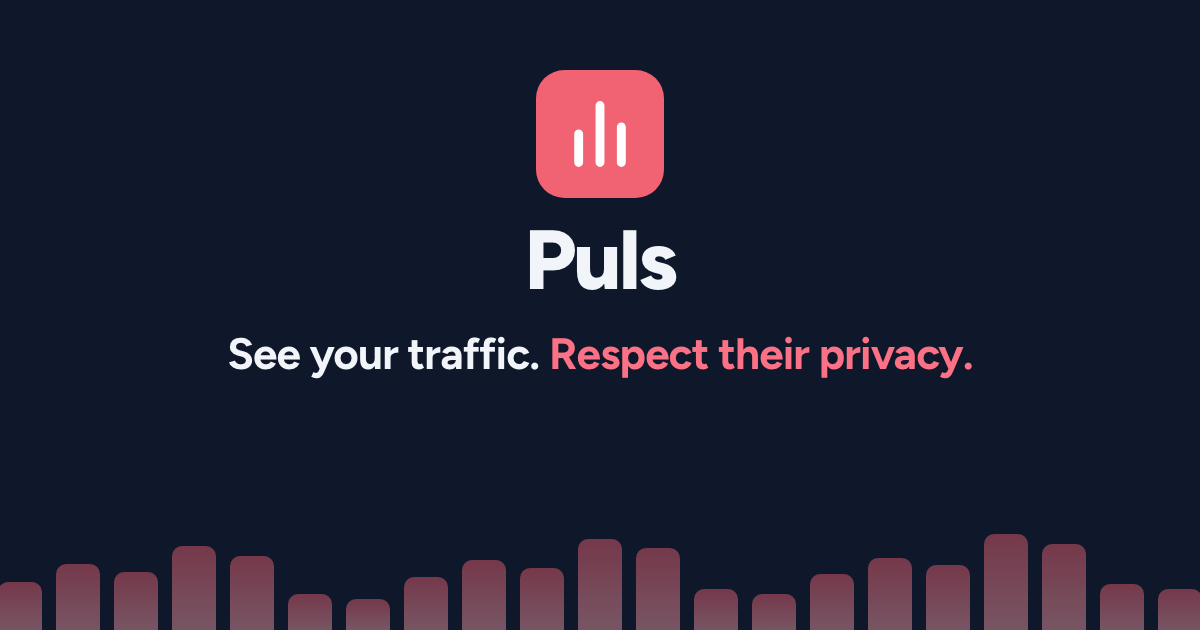
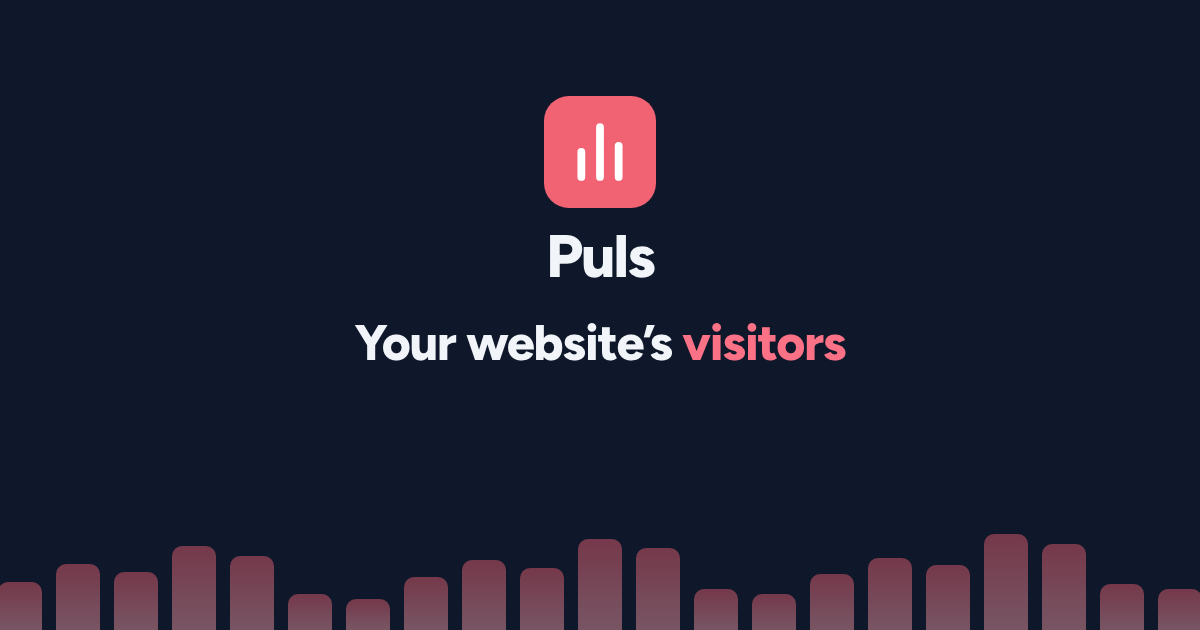
fix(share): the preview speaks to the person who opens it
A reader in the role of an agency's customer, who had never heard of
Puls, took the tagline in the image for an ad and saw it cut to
"e your traffic. Respect their priva" in the square a chat crops to,
and found "Puls" as the site name hid the install's address they might
know. The image now says "Your website's visitors" inside that square,
the title starts with the site ("shop.example – website statistics"),
the description says the link is view only, with no sign-up or login,
and only an install with a name of its own names itself as the site.

From the code review: an install with only an accent of its own named
itself Puls, the image address was http behind a TLS proxy unless
APP_URL was set (X-Forwarded-Proto now counts from TRUSTED_PROXIES),
and an expired token's noindex was not tested.

Changed region(s): [[0.185, 0.5127, 0.8017, 0.6032], [0.4317, 0.0905, 0.555, 0.3317], [0.4317, 0.3619, 0.5858, 0.4825]]

diff --git a/public/index.php b/public/index.php
@@ -2742,48 +2742,59 @@ function share_scope_name(array $share): string
     return $share['site'] !== '' ? $share['site'] : implode(', ', share_token_groups($share));
 }
 
-// A name or an accent of its own, so nothing the install shows should say Puls
+// A name or an accent of its own. Wider than the rest of the install's white-label, which goes by
+// the name: here it decides the share image, which is coral and says Puls
 function is_white_labelled(array $config): bool
 {
     return $config['app_name'] !== 'Puls' || strtolower($config['app_accent']) !== '#f16272';
 }
 
 // This install's address, for the image in a pasted link's preview: APP_URL, else the host the page
-// was asked for when it is a plain one. Null for anything else, since it goes into the page
+// was asked for when it is a plain one, https as the request or a trusted proxy says (a container
+// behind Caddy or Traefik is asked over http). Null for anything else, since it goes into the page
 function public_origin(array $config, array $server): ?string
 {
     if (!empty($config['app_url'])) return $config['app_url'];
     $host = $server['HTTP_HOST'] ?? '';
     if (!preg_match('/^[a-z0-9.-]+(:\d+)?$/i', $host)) return null;
     $https = !empty($server['HTTPS']) && strtolower($server['HTTPS']) !== 'off';
+    foreach ($config['trusted_proxies'] ?? [] as $range) {
+        if (ip_in_range($server['REMOTE_ADDR'] ?? '', $range)) {
+            $https = $https || strtolower(trim($server['HTTP_X_FORWARDED_PROTO'] ?? '')) === 'https';
+            break;
+        }
+    }
     return ($https ? 'https' : 'http') . '://' . $host;
 }
 
 /**
  * A shared page's head for a pasted link's preview, which reads the HTML and never runs the
- * dashboard's script: the site or groups as the title, what the link opens, and Puls's image unless
- * the install has a brand of its own. The tags take the description's place, so the config block
- * still follows the first </title>. A callback replaces, since a name may hold $1 or \1
+ * dashboard's script: the site or groups first in the title (a chat may cut it short), what the
+ * link opens and that nobody signs up for anything, and Puls's image unless the install has a brand
+ * of its own. Only a brand of its own is named as the site: a chat shows the install's address
+ * otherwise, which the reader may know where "Puls" says nothing. The tags take the description's
+ * place, so the config block still follows the first </title>. A callback replaces, since a name
+ * may hold $1 or \1
  */
 function share_preview_head(string $html, array $config, array $share, ?string $origin): string
 {
     $e = fn (string $s) => htmlspecialchars($s, ENT_QUOTES);
     $scope = share_scope_name($share);
-    $description = 'Visitors, pages and where they came from. Read-only, no login needed.';
+    $description = 'Visitors, top pages and where they came from. View only: no sign-up, no login. Only people with this link can open it.';
     $tags = [
         '<meta name="description" content="' . $description . '">',
         '<meta name="robots" content="noindex">',
         '<meta property="og:type" content="website">',
-        '<meta property="og:site_name" content="' . $e($config['app_name']) . '">',
-        '<meta property="og:title" content="' . $e("Statistics for {$scope}") . '">',
+        '<meta property="og:title" content="' . $e("{$scope} – website statistics") . '">',
         '<meta property="og:description" content="' . $description . '">',
     ];
+    if ($config['app_name'] !== 'Puls') $tags[] = '<meta property="og:site_name" content="' . $e($config['app_name']) . '">';
     $image = $origin !== null && !is_white_labelled($config);
     if ($image) {
         $tags[] = '<meta property="og:image" content="' . $e("{$origin}/og.png") . '">';
         $tags[] = '<meta property="og:image:width" content="1200">';
         $tags[] = '<meta property="og:image:height" content="630">';
-        $tags[] = '<meta property="og:image:alt" content="Puls: See your traffic. Respect their privacy.">';
+        $tags[] = '<meta property="og:image:alt" content="Puls: your website’s visitors">';
     }
     $tags[] = '<meta name="twitter:card" content="' . ($image ? 'summary_large_image' : 'summary') . '">';
     $html = preg_replace_callback('#<meta name="description" content="[^"]*">#', fn () => implode("\n", $tags), $html, 1);

diff --git a/tests/Feature/EndpointTest.php b/tests/Feature/EndpointTest.php
@@ -799,11 +799,12 @@ test('share endpoint sets security headers', function () {
 test('a shared link previews as its site, read-only, from the server', function () {
     $r = http('GET', '/?share=' . createTestShareToken('shop.example'));
     expect($r['body'])->toContain('<title>shop.example – Puls</title>')
-        ->toContain('<meta property="og:title" content="Statistics for shop.example">')
-        ->toContain('<meta name="description" content="Visitors, pages and where they came from. Read-only, no login needed.">')
-        ->toContain('<meta property="og:site_name" content="Puls">')
+        ->toContain('<meta property="og:title" content="shop.example – website statistics">')
+        ->toContain('<meta name="description" content="Visitors, top pages and where they came from. View only: no sign-up, no login. Only people with this link can open it.">')
         ->toContain('<meta name="robots" content="noindex">')
         ->toContain('<meta name="twitter:card" content="summary_large_image">')
+        // Without a name of its own, a chat shows the install's address, which the reader may know
+        ->not->toContain('og:site_name')
         ->not->toContain('Cookieless, lightweight');
     expect(preg_match('#<meta property="og:image" content="http://localhost:\d+/og\.png">#', $r['body']))->toBe(1);
     // The config block still follows the first </title>
@@ -813,17 +814,17 @@ test('a shared link previews as its site, read-only, from the server', function 
 test('a token for groups previews as its groups', function () {
     $body = http('GET', '/?share=' . createTestGroupToken(['Shops', 'Private']))['body'];
     expect($body)->toContain('<title>Shops, Private – Puls</title>')
-        ->toContain('content="Statistics for Shops, Private"');
+        ->toContain('content="Shops, Private – website statistics"');
 });
 
 test('a site name cannot break out of the preview tags', function () {
     $body = http('GET', '/?share=' . createTestShareToken('a"<b>&c'))['body'];
-    expect($body)->toContain('content="Statistics for a&quot;&lt;b&gt;&amp;c"')
+    expect($body)->toContain('content="a&quot;&lt;b&gt;&amp;c – website statistics"')
         ->not->toContain('a"<b>');
     // $0 and \1 are what a regex replacement reads as the match
     expect(http('GET', '/?share=' . createTestShareToken('shop$0\1'))['body'])
         ->toContain('<title>shop$0\1 – Puls</title>')
-        ->toContain('content="Statistics for shop$0\1"');
+        ->toContain('content="shop$0\1 – website statistics"');
 });
 
 test('the share preview image is served at 1200 x 630', function () {
@@ -834,7 +835,8 @@ test('the share preview image is served at 1200 x 630', function () {
 
 test('every answer to a share token asks not to be indexed', function () {
     $token = createTestShareToken('shop.example');
-    foreach (['/?share=' . $token, '/?api&days=7&share=' . $token, '/?share=' . bin2hex(random_bytes(32))] as $url) {
+    $expired = createTestShareToken('shop.example', '2000-01-01 00:00:00');
+    foreach (['/?share=' . $token, '/?api&days=7&share=' . $token, '/?share=' . bin2hex(random_bytes(32)), '/?share=' . $expired] as $url) {
         expect(http('GET', $url)['headers'])->toContain('X-Robots-Tag: noindex');
     }
     expect(http('GET', '/?login')['headers'])->not->toContain('X-Robots-Tag: noindex');

diff --git a/tests/Unit/SharePreviewTest.php b/tests/Unit/SharePreviewTest.php
@@ -19,3 +19,22 @@ test('the public origin is APP_URL, else the request host when it is a plain hos
         ->and(public_origin(['app_url' => null], ['HTTP_HOST' => 'evil.example/"><x']))->toBeNull()
         ->and(public_origin(['app_url' => null], []))->toBeNull();
 });
+
+test('behind a trusted proxy, the scheme comes from X-Forwarded-Proto', function () {
+    $config = ['app_url' => null, 'trusted_proxies' => ['10.0.0.0/8']];
+    $proxied = ['HTTP_HOST' => 'puls.example.com', 'REMOTE_ADDR' => '10.0.0.5', 'HTTP_X_FORWARDED_PROTO' => 'https'];
+    expect(public_origin($config, $proxied))->toBe('https://puls.example.com')
+        // Anyone can send the header, so it counts only from a proxy named in TRUSTED_PROXIES
+        ->and(public_origin($config, ['REMOTE_ADDR' => '203.0.113.10'] + $proxied))->toBe('http://puls.example.com')
+        ->and(public_origin(['app_url' => null, 'trusted_proxies' => []], $proxied))->toBe('http://puls.example.com');
+});
+
+test('an install with only an accent of its own gets no image, and is not named Puls', function () {
+    $html = '<meta name="description" content="x"><title>Puls</title>';
+    $share = ['site' => 'shop.example', 'group_names' => null];
+    $accent = share_preview_head($html, ['app_name' => 'Puls', 'app_accent' => '#1d4ed8'], $share, 'https://puls.example.com');
+    expect($accent)->not->toContain('og:image')->not->toContain('og:site_name')
+        ->toContain('<meta name="twitter:card" content="summary">');
+    $named = share_preview_head($html, ['app_name' => 'Acme Stats', 'app_accent' => '#f16272'], $share, 'https://puls.example.com');
+    expect($named)->toContain('<meta property="og:site_name" content="Acme Stats">')->not->toContain('og:image');
+});

diff --git a/ROADMAP.md b/ROADMAP.md
@@ -404,7 +404,8 @@ One word everywhere: posts (`posts:add`, `posts` in the API, Posts in the dashbo
 - [ ] **Pages to fix tells a fixed address from a failing one** - an address stays in the list for 30 days after its last hit, ordered by hits, so an address fixed weeks ago heads it with nothing to tell it apart: a site that published its `robots.txt` and `sitemap.xml` still saw them at the top, and an assistant reading the report had to fetch each one to know. Mark an address with no hit in the last few days as not seen since its day (possibly fixed), or list those apart from the ones still failing, in the dashboard and the Markdown report. Found by a site check that read the report (2026-11-19)
 - [ ] **A host that cannot point a domain at `public/`** - `docs/install.md` says to point the domain at `public/` and keep the rest outside the web root, but not what to do on a host that cannot, where uploading everything to the web root would serve `users.json`, `.env` and the database. Say so, and what to do instead (a subdomain, or deny rules for Apache). Found by the same reader (2026-11-19)
 - [x] **The menu on a shared link** - a shared link had no menu, so its reader could not pick a theme. That was set aside as a need nobody had raised, and taken up the same day with the live demo, where someone trying Puls wants to see both themes. The menu holds what works without a login: Appearance, Export (the figures the token already reads from the API) and This link, which says what the link shows, that anyone with it sees the figures, and until when it works. What needs a login (goals, chart notes, excluded IPs) is left out rather than shown disabled, which says "not for you" without saying why
-- [x] **A share link's preview, and no indexing** - a preview reads the page without running its script, so a link sent to a customer showed the title Puls and a description written for a developer, on a white-labelled install too. The server now names the site or the groups, says the link is read-only, and adds one image for every link (`public/og.png`, drawn by `scripts/og-image.mjs`): the mark in the middle, so a square crop keeps it, the day bars faint below, and no figures, since a preview service keeps the image and shows it to a whole channel. A white-labelled install gets its own name and no image. Every answer to a token carries `noindex`. An image drawn per link with the site's name was set aside: it needs GD, which Puls does not require, and the title carries the name
+- [x] **A share link's preview, and no indexing** - a preview reads the page without running its script, so a link sent to a customer showed the title Puls and a description written for a developer, on a white-labelled install too. The server now puts the site or the groups first in the title, says the link is view only and needs no sign-up, and adds one image for every link (`public/og.png`, drawn by `scripts/og-image.mjs`): the mark and "Your website's visitors" inside the square a chat crops to, the day bars faint below, and no figures, since a preview service keeps the image and shows it to a whole channel. A reader in the role of an agency's customer, who had never heard of Puls, took the first image's tagline for an ad and saw it cut short in the square, and found "Puls" as the site name hid the install's address they might know: the image speaks to them now, and only a white-labelled install names itself. A white-labelled install shows no image. Every answer to a token carries `noindex`. An image drawn per link with the site's name was set aside: it needs GD, which Puls does not require, and the title carries the name. The link's last day in the preview was set aside too: the link's menu says it, and the preview stays short
+- [ ] **Puls's coral icons in a white-labelled install's previews** - the page's own head still carries the coral favicon (a data URI, recoloured by the dashboard's script only at runtime), the coral `icon-180.png` as `apple-touch-icon` and `theme-color` `#f16272`, and a preview reads those: iMessage shows the touch icon when there is no image, Slack a site icon, Discord colours its card with the theme colour. So a white-labelled shared link still shows a coral Puls tile. The favicon and the theme colour can take the accent on the server; the touch icon needs one drawn in the accent or none. Found by the code review of the share link preview (2026-11-20)
 
 ---
 
@@ -429,6 +430,7 @@ Things to explore later — not committed to.
 - **Posts added by hand** - `posts:add` without `--json` asking for a post, for a newsletter or an ad in print. Set aside with Epic 23: chart notes already mark a day by hand, and two markers for nearly the same thing need a difference that holds in the interface. Worth it if the posts prove useful and the same people ask for what they send outside social media
 - **A post's own numbers** - views, likes and saves from the platform beside the post in the hours card, and the posts listed by the visits they brought. Only if posts next to the visits (Epic 23) show something a site owner acts on
 - **Retention and cohorts: considered, set aside** - how many of a week's or a channel's visitors come back later. They need a visitor recognised on another day, which the daily salt prevents on purpose. An app with logged-in users has its own ids for that, and the revenue figures built on them (recurring revenue, churn, ad spend against revenue) belong to a tool that reads those accounts, not to Puls
+- **A shared link's first screen says whose it is and that it is view only** - the preview of a pasted link names the site and says the link is view only, but the page it opens leads with "Puls" in large type, names the site only in small grey text by the chart, and says it cannot be changed only in the menu under This link. A group link's picker says All sites, with the group's name further down. A heading with the site's or the groups' name, and a quiet "View only" beside it, would match what the preview promised. Found by a reader in the role of an agency's customer (2026-11-20)
 - **Share links and groups without SSH** - both are made with CLI commands on the server, and no page in the dashboard makes them, so an agency on a host without SSH gets neither, though they are what it would use most. Webready's product page says so. Worth it if someone on such a host asks: a share link made from the dashboard is a write that needs the same care as goals and notes
 - **Known referrer spam** - a domain that sends one fake visit to advertise itself (`stats.example.de` style) shows among a site's referring sites beside real ones. Matomo keeps a list of such domains; a list in Puls would have to be kept up, and a wrong entry hides a real source. Worth it if it shows up on more sites than one (seen once, by a site check, 2026-11-19)
 - **Broken link hits per period** - Nginx's count per link is a running total since the link was first seen, and the report and the dashboard say so. A count per link and day, as `bot_days` keeps for bots, would give a period's hits and show whether a fix took. Worth it if someone asks that

diff --git a/docs/configuration.md b/docs/configuration.md
@@ -85,7 +85,9 @@ A link works for 90 days unless you give another last day, or `--expires=never`.
 
 ### When a link is pasted
 
-A chat or a social site shows a preview of a pasted link, read from the page without running its script. A share link's preview names what it opens (`Statistics for shop.example`, or the groups), says it is read-only and needs no login, and shows Puls's image: the mark and the tagline, the same for every link, with no figures from the site, since a preview service keeps the image and shows it to everyone in a channel. The image's address is built from `APP_URL`, else from the address the page was opened on: set `APP_URL` when a proxy in front of Puls changes the scheme or the host. A white-labelled install shows its own name and no image.
+A chat or a social site shows a preview of a pasted link, read from the page without running its script. A share link's preview names what it opens (`shop.example – website statistics`, or the groups), says it is view only with no sign-up or login and that only people with the link can open it, and shows Puls's image: the mark and "Your website's visitors", the same for every link, with no figures from the site, since a preview service keeps the image and shows it to everyone in a channel. The image's address is built from `APP_URL`, else from the address the page was opened on, with `https` from `X-Forwarded-Proto` when the proxy in front is in `TRUSTED_PROXIES`: set `APP_URL` when a proxy changes the host. An install with an `APP_NAME` of its own is named by it in the preview, and one with its own `APP_NAME` or `APP_ACCENT` shows no image, since the image is coral and says Puls.
+
+The person you send a link to sees the site's or the groups' names, in the preview first of all: name a group you share as you would to them (`Acme Shop`, not `Shops` or `clients-2026`).
 
 Every answer to a share token asks search engines not to index it (`X-Robots-Tag: noindex`), so a link that ends up on a public page does not put a site's statistics in a search engine.
 
@@ -134,7 +136,7 @@ APP_TAGLINE=Your custom tagline
 APP_ACCENT=#e11d48
 ```
 
-This changes the login page, dashboard header, PWA manifest and favicon. `APP_ACCENT` colours the logo, the bars and the charts. Links and buttons use it only where it is readable as text (a contrast of 4.5:1 against the background, checked for light and dark mode separately); otherwise they keep Puls's red, so a pale brand colour never makes links hard to read. Under white-label the footer says "Powered by Puls". Without it, the footer says "Made by Webready in Sweden"; `FOOTER_CREDIT=false` turns that off. A pasted share link shows `APP_NAME` and leaves out Puls's image ([when a link is pasted](#when-a-link-is-pasted)).
+This changes the login page, dashboard header, PWA manifest and favicon. `APP_ACCENT` colours the logo, the bars and the charts. Links and buttons use it only where it is readable as text (a contrast of 4.5:1 against the background, checked for light and dark mode separately); otherwise they keep Puls's red, so a pale brand colour never makes links hard to read. Under white-label the footer says "Powered by Puls". Without it, the footer says "Made by Webready in Sweden"; `FOOTER_CREDIT=false` turns that off. A pasted share link shows `APP_NAME`, and leaves out Puls's image when `APP_NAME` or `APP_ACCENT` is set ([when a link is pasted](#when-a-link-is-pasted)).
 
 ## CLI reference
 

diff --git a/CHANGELOG.md b/CHANGELOG.md
@@ -9,7 +9,7 @@ and this project adheres to [Semantic Versioning](https://semver.org/).
 
 ### Added
 
-- **A share link pasted into a chat shows the site it opens, that it is read-only, and Puls's image.** A preview (Slack, Teams, iMessage, WhatsApp) reads the page without running its script, so it showed the title Puls and a description of the tool written for a developer, on a white-labelled install too. The title now names the site, or the groups (`Statistics for shop.example`), the description says the link is read-only and needs no login, and the image is the mark and the tagline over the day bars, the same for every link. It holds no figures, since a preview service keeps the image on its own servers and shows it to everyone in a channel. A white-labelled install shows its own name and no image. The image's address comes from `APP_URL`, else the address the page was opened on ([when a link is pasted](docs/configuration.md#when-a-link-is-pasted)).
+- **A share link pasted into a chat shows the site it opens, that it is view only, and an image.** A preview (Slack, Teams, iMessage, WhatsApp) reads the page without running its script, so it showed the title Puls and a description of the tool written for a developer, on a white-labelled install too. The title now starts with the site, or the groups (`shop.example – website statistics`), the description says the link is view only, with no sign-up or login, and that only people with the link can open it, and the image is the mark and "Your website's visitors" over the day bars, the same for every link and readable in the square a chat crops it to. It holds no figures, since a preview service keeps the image on its own servers and shows it to everyone in a channel. Only an install with an `APP_NAME` of its own names itself as the site, since a chat otherwise shows the install's address, which the reader may know, and one with its own `APP_NAME` or `APP_ACCENT` shows no image. The image's address comes from `APP_URL`, else the address the page was opened on, with `https` from `X-Forwarded-Proto` when the proxy is in `TRUSTED_PROXIES` ([when a link is pasted](docs/configuration.md#when-a-link-is-pasted)).
 
 ### Changed
 

diff --git a/CLAUDE.md b/CLAUDE.md
@@ -70,7 +70,7 @@ users.json              — User credentials (bcrypt hashed, auto-created by CLI
 data/puls.sqlite        — SQLite database (auto-created, gitignored)
 composer.json           — Platform requirements (PHP 8.3+, pdo_sqlite) + dev dependencies (Pest)
 phpunit.xml             — Test configuration (Pest)
-tests/                  — Pest test suite (575 tests, unit + feature)
+tests/                  — Pest test suite (577 tests, unit + feature)
 docs/integrations.md    - Tracking setup: script attributes, events, keeping personal data out of URLs, excluding own visits, reverse proxies
 docs/api.md             - Read API reference (JSON/CSV, share tokens)
 docs/install.md         - Install and run: release download, shared hosting, Nginx, Apache, Forge, Docker, upgrading
